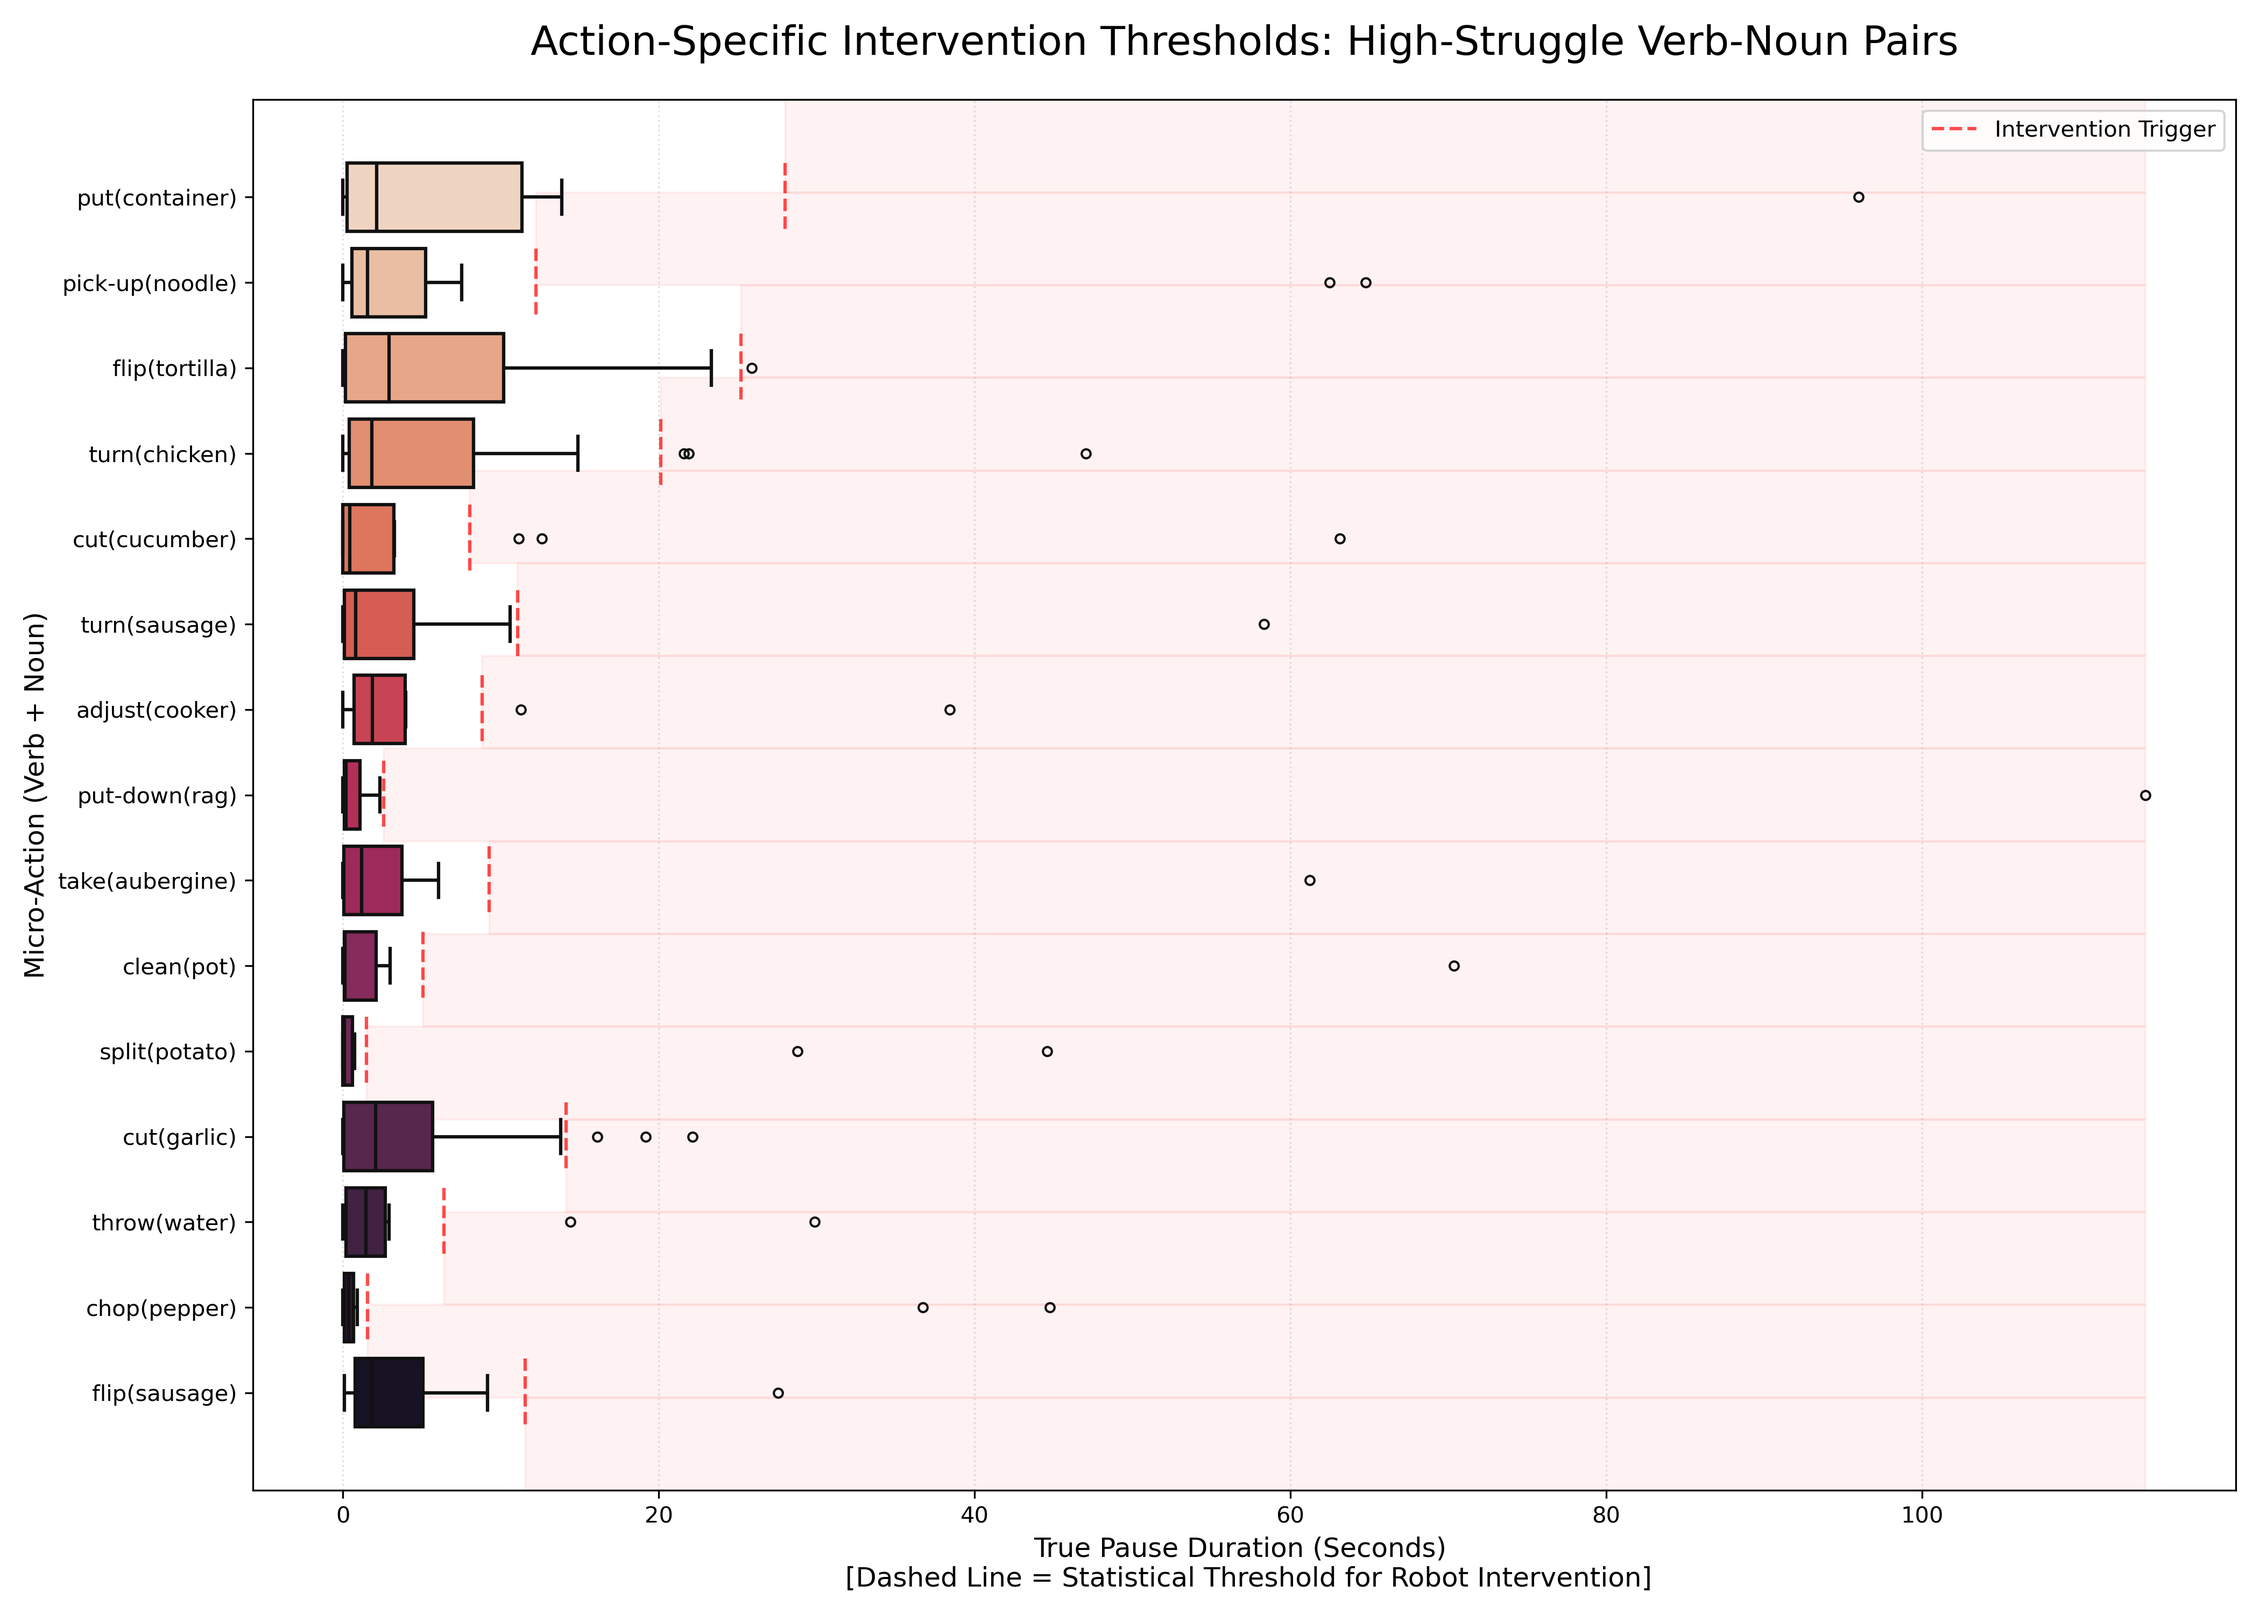
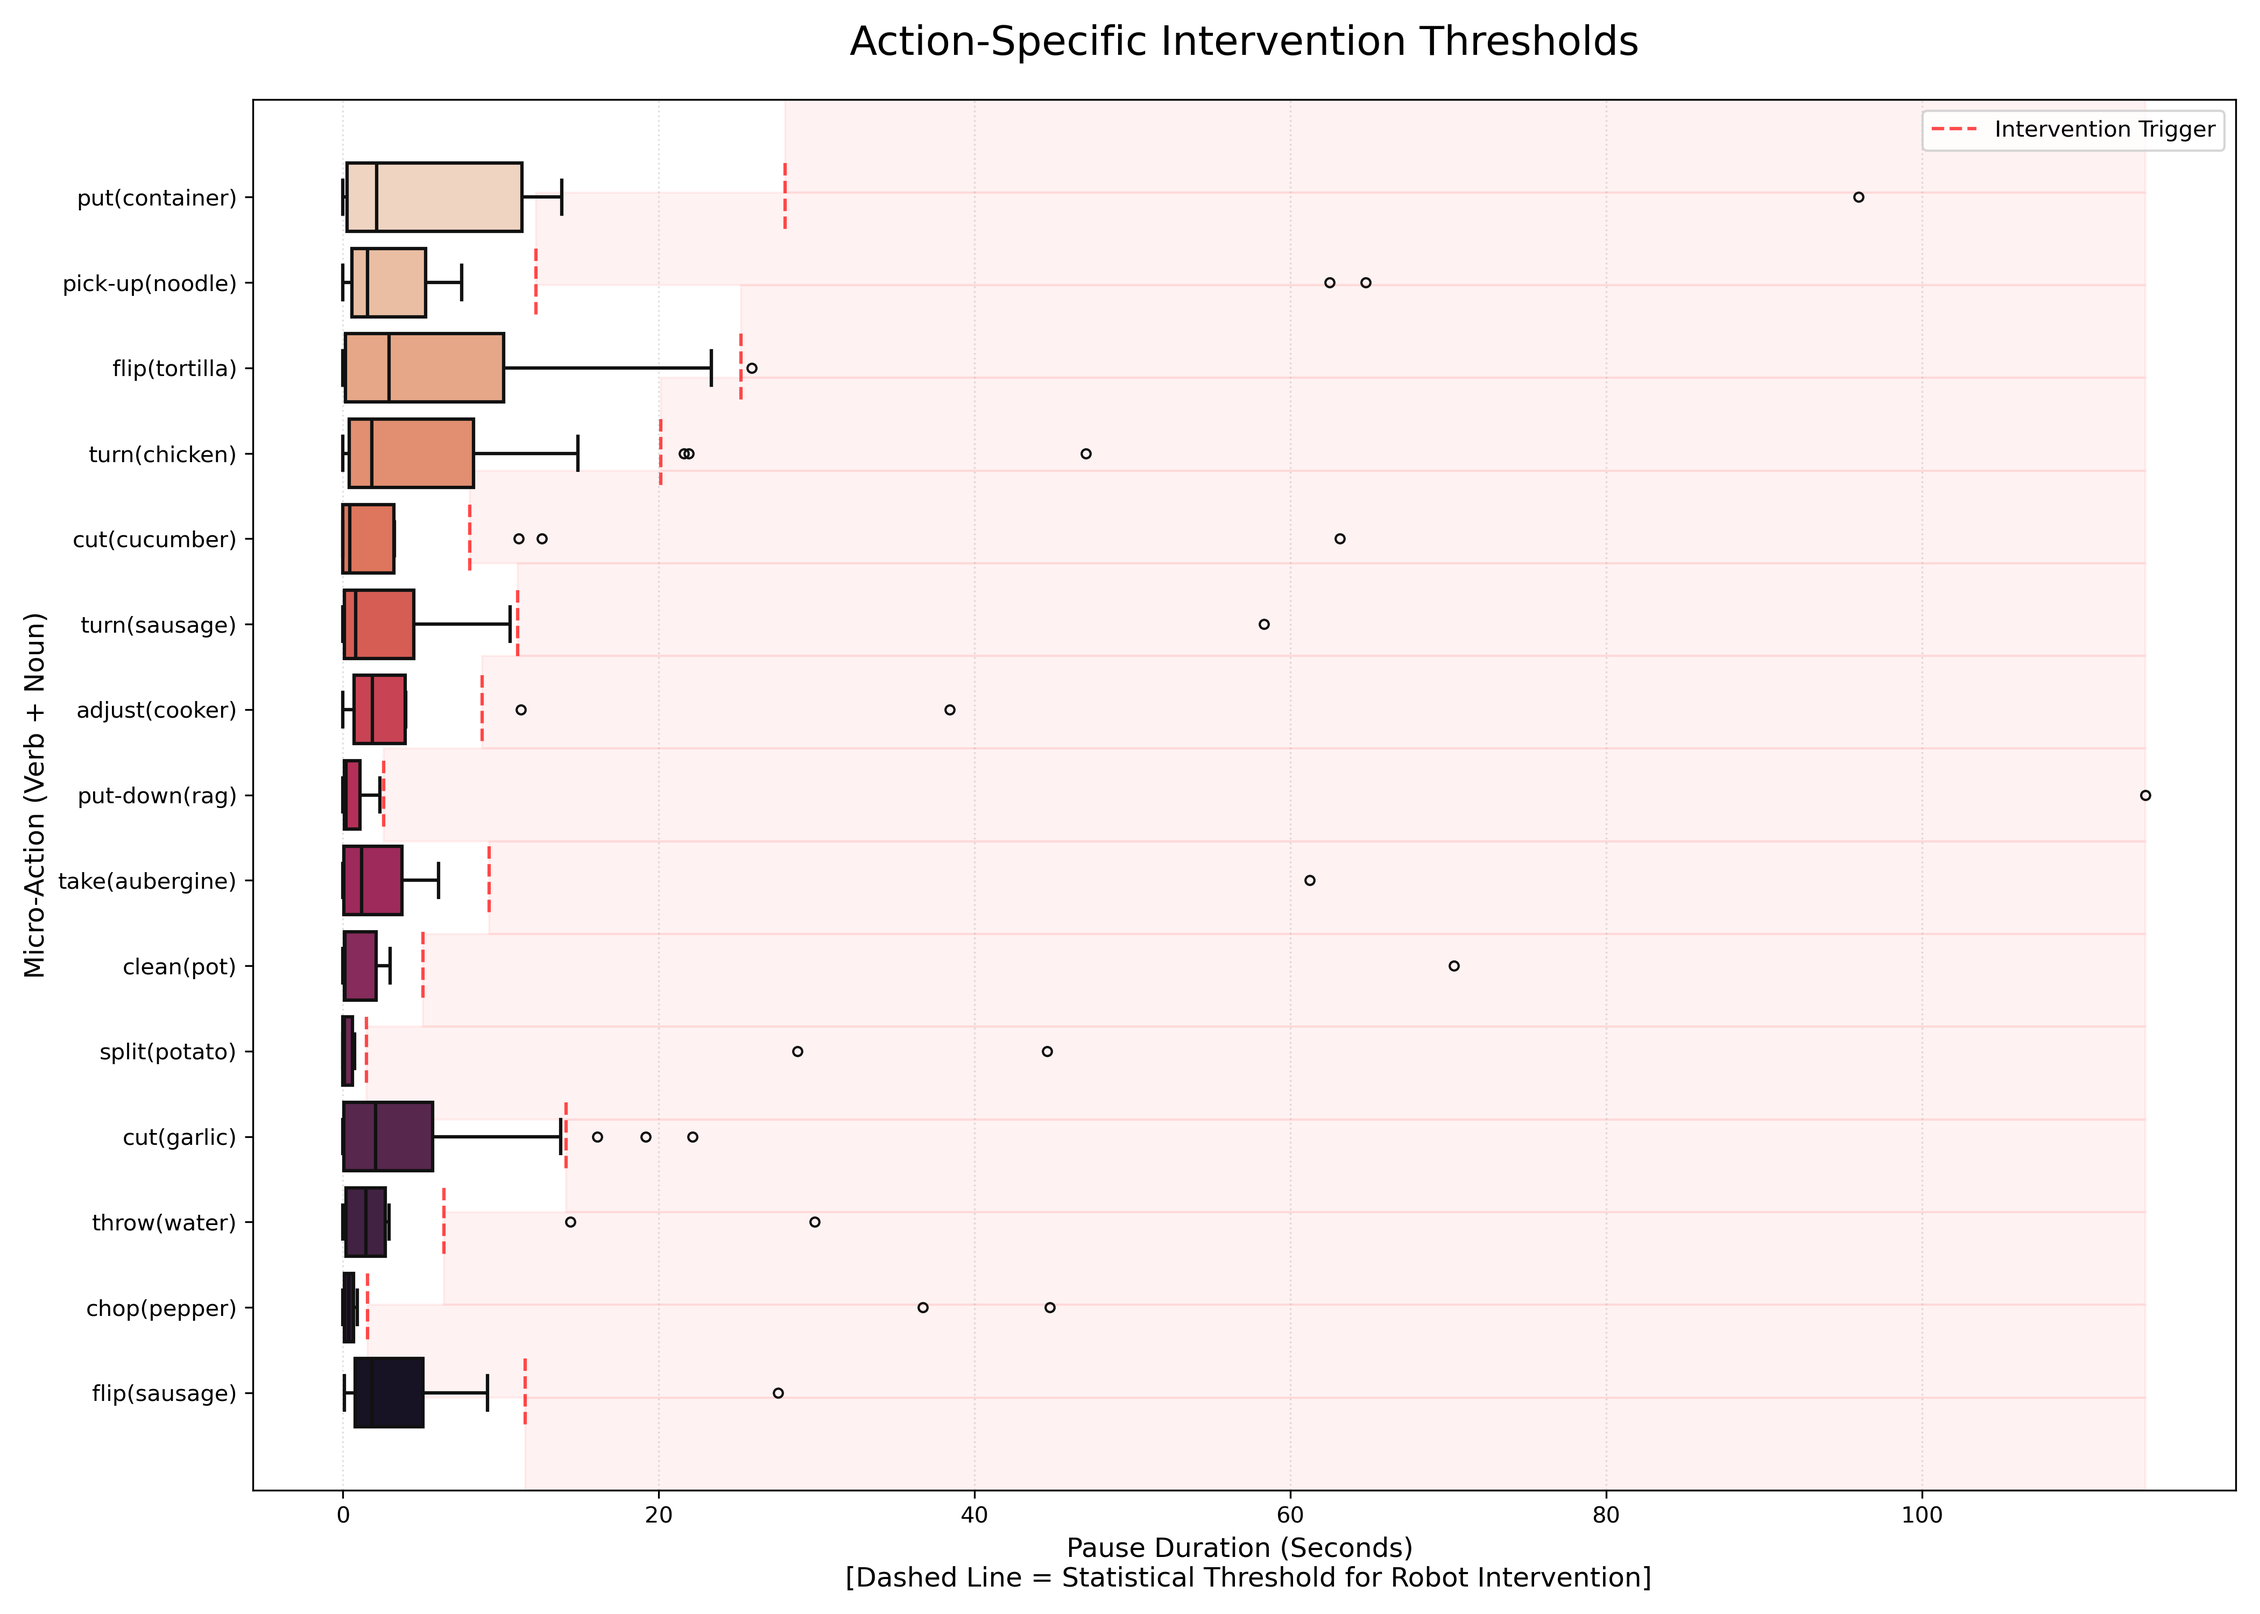
update disfluency and temporal analysis

Changed region(s): [[0.2495, 0.0, 0.8733, 0.062], [0.4679, 0.93, 0.5926, 0.961]]

diff --git a/code/new_oscillation.py b/code/new_oscillation.py
@@ -2,6 +2,7 @@ import pandas as pd
 import matplotlib.pyplot as plt
 import seaborn as sns
 import numpy as np
+import matplotlib.gridspec as gridspec
 
 # 1. LOAD AND PREPROCESS
 df = pd.read_csv('../EPIC_100_train.csv')
@@ -28,59 +29,55 @@ timing_df = find_oscillations_with_timing(df)
 # Calculate the 90th percentile as our statistical "Intervention Threshold"
 threshold_90 = np.percentile(timing_df['duration'], 90)
 
-# Confusion Rate Logic (using Action A as the primary target)
+# Calculate Confusion Rates
 action_counts = df['action'].value_counts().to_dict()
 osc_counts_by_action = timing_df['action_a'].value_counts().to_dict()
 
 conf_list = []
 for action, osc_count in osc_counts_by_action.items():
     total = action_counts.get(action, 0)
-    if total > 15: # Significance filter
-        conf_list.append({'Action': action, 'Freq': total, 'Osc': osc_count, 'Conf_Rate': (osc_count/total)*100})
+    if total > 15: 
+        conf_list.append({'Action': action, 'Conf_Rate': (osc_count/total)*100})
 conf_df = pd.DataFrame(conf_list).sort_values('Conf_Rate', ascending=False)
 
-# 2. VISUALIZATION (The 2x2 Dashboard)
-fig, axes = plt.subplots(2, 2, figsize=(18, 14))
-plt.suptitle("Statistical Analysis of Kitchen Disfluency: Micro-Perspective Intervention Map", fontsize=22, y=0.98)
+# 2. VISUALIZATION (3-Plot Dashboard)
+fig = plt.figure(figsize=(18, 14))
+gs = gridspec.GridSpec(2, 2, height_ratios=[1, 1])
+plt.suptitle("Statistical Analysis of Kitchen Disfluency: Logic-Driven Intervention Map", 
+             fontsize=24, y=0.98, fontweight='bold')
 
-# Q1: TOP PATTERNS (Length = Frequency, Color = Difficulty)
+# --- PLOT 1: Top Left (Top 15 Oscillating Patterns) ---
+ax1 = fig.add_subplot(gs[0, 0])
 top_patterns = timing_df.groupby('pattern')['duration'].agg(['count', 'mean']).sort_values('count', ascending=False).head(15)
 norm = plt.Normalize(top_patterns['mean'].min(), top_patterns['mean'].max())
 sm = plt.cm.ScalarMappable(cmap="RdYlGn_r", norm=norm)
 
-axes[0,0].barh(top_patterns.index, top_patterns['count'], color=plt.cm.RdYlGn_r(norm(top_patterns['mean'])))
-axes[0,0].set_title("1. Top 15 Oscillating Patterns", fontweight='bold', pad=10)
-axes[0,0].set_xlabel("Number of Occurrences (Frequency)")
-axes[0,0].invert_yaxis()
-# Add Colorbar to explain the colors
-cbar = fig.colorbar(sm, ax=axes[0,0], fraction=0.046, pad=0.04)
-cbar.set_label('Average Loop Duration (Seconds)')
+ax1.barh(top_patterns.index, top_patterns['count'], color=plt.cm.RdYlGn_r(norm(top_patterns['mean'])))
+ax1.set_title("1. Most Common Repetitive Patterns", fontweight='bold', fontsize=16)
+ax1.set_xlabel("Number of Occurrences", fontsize=12)
+ax1.invert_yaxis()
+cbar = fig.colorbar(sm, ax=ax1, fraction=0.046, pad=0.04)
+cbar.set_label('Avg Loop Duration (s)')
 
-# Q2: VULNERABILITY SCATTER
-sns.scatterplot(data=conf_df, x='Freq', y='Conf_Rate', size='Osc', hue='Conf_Rate', palette='coolwarm', ax=axes[0,1], sizes=(50, 500))
-axes[0,1].set_title("2. Action Vulnerability: Frequency vs. Confusion Rate", fontweight='bold', pad=10)
-axes[0,1].set_xlabel("Total Occurrences of Action in Dataset")
-axes[0,1].set_ylabel("Confusion Rate (%)")
-# Label Top 3 for clarity
-for i in range(min(3, len(conf_df))):
-    axes[0,1].text(conf_df.iloc[i]['Freq']+30, conf_df.iloc[i]['Conf_Rate'], conf_df.iloc[i]['Action'], fontsize=10, weight='bold')
+# --- PLOT 2: Top Right (Global Distribution & Threshold) ---
+ax2 = fig.add_subplot(gs[0, 1])
+ax2.hist(timing_df['duration'], bins=35, color='steelblue', alpha=0.7, edgecolor='black')
+ax2.axvline(threshold_90, color='red', linestyle='--', linewidth=2, label=f'90th %-ile ({threshold_90:.1f}s)')
+ax2.set_title("2. Global Loop Durations & Decision Boundary", fontweight='bold', fontsize=16)
+ax2.set_xlabel("Loop Duration (Seconds)", fontsize=12)
+ax2.set_ylabel("Count", fontsize=12)
+ax2.legend()
 
-# Q3: STATISTICAL DISTRIBUTION (The "Why")
-axes[1,0].hist(timing_df['duration'], bins=35, color='steelblue', alpha=0.7, edgecolor='black')
-axes[1,0].axvline(threshold_90, color='red', linestyle='--', linewidth=2, label=f'90th %-ile Trigger ({threshold_90:.1f}s)')
-axes[1,0].set_title("3. Global Distribution of Loop Durations", fontweight='bold', pad=10)
-axes[1,0].set_xlabel("Duration of Loop (Seconds)")
-axes[1,0].set_ylabel("Number of Events (Count)")
-axes[1,0].legend()
-
-# Q4: INTERVENTION PRIORITY
+# --- PLOT 3: Bottom (Intervention Priority) ---
+ax3 = fig.add_subplot(gs[1, :]) # Span across both columns
 top_targets = conf_df.head(12)
-axes[1,1].barh(top_targets['Action'], top_targets['Conf_Rate'], color='salmon')
-axes[1,1].set_title("4. Intervention Priority (Highest Probability of Loop)", fontweight='bold', pad=10)
-axes[1,1].set_xlabel("Confusion Rate (%)")
-axes[1,1].set_ylabel("Primary Action")
-axes[1,1].invert_yaxis()
+ax3.barh(top_targets['Action'], top_targets['Conf_Rate'], color='salmon')
+ax3.set_title("3. Actions with Highest Confusion Probability", fontweight='bold', fontsize=16)
+ax3.set_xlabel("Confusion Rate (%)", fontsize=12)
+ax3.set_ylabel("Primary Action", fontsize=12)
+ax3.invert_yaxis()
 
+# Final Polish
 plt.tight_layout(rect=[0, 0.03, 1, 0.95])
-plt.savefig('../visualization/refined_disfluency_map.png', dpi=300)
+plt.savefig('../visualization/refined_disfluency_map_v2.png', dpi=300)
 plt.show()

diff --git a/code/action_duration.py b/code/action_duration.py
@@ -28,27 +28,27 @@ fig = plt.figure(figsize=(20, 14))
 # Create a 2x2 grid, but we will use the bottom row as one big plot
 gs = gridspec.GridSpec(2, 2, height_ratios=[1, 1])
 
-plt.suptitle("Micro-Perspective Temporal Analysis: Physical Effort vs. Cognitive Struggle", 
+plt.suptitle("Temporal Analysis", 
              fontsize=24, y=0.96, fontweight='bold')
 
 # --- PLOT 1: Top Left (Most Frequent vs Duration) ---
 ax1 = fig.add_subplot(gs[0, 0])
 sns.boxplot(data=df_freq, x='duration', y='verb', ax=ax1, palette='Blues', order=top_freq_verbs)
-ax1.set_title("1. Physical Effort: Duration of Frequent Actions", fontsize=16, pad=15)
+ax1.set_title("1. Duration of Frequent Actions", fontsize=16, pad=15)
 ax1.set_xlabel("Seconds (Execution Time)", fontsize=12)
 ax1.set_ylabel("Verb", fontsize=12)
 
 # --- PLOT 2: Top Right (Most Frequent vs True Pause) ---
 ax2 = fig.add_subplot(gs[0, 1])
 sns.boxplot(data=df_freq, x='true_pause', y='verb', ax=ax2, palette='Oranges', order=top_freq_verbs)
-ax2.set_title("2. Cognitive Struggle: True Pause after Frequent Actions", fontsize=16, pad=15)
+ax2.set_title("2. Pause after Frequent Actions", fontsize=16, pad=15)
 ax2.set_xlabel("Seconds (Idle Time)", fontsize=12)
 ax2.set_ylabel("") # Remove y-label to reduce clutter
 
 # --- PLOT 3: Bottom (Actions with Longest True Pause - Spans both columns) ---
 ax3 = fig.add_subplot(gs[1, :]) # Use the entire bottom row
 sns.barplot(x=top_pause_verbs.values, y=top_pause_verbs.index, ax=ax3, palette='magma')
-ax3.set_title("3. Resumption Risk: Top 10 Verbs by Mean True Pause (Global)", fontsize=16, pad=15)
+ax3.set_title("3. Top 10 Verbs by Mean Pause (Global)", fontsize=16, pad=15)
 ax3.set_xlabel("Mean Seconds (Gap Before Next Action)", fontsize=12)
 ax3.set_ylabel("Verb", fontsize=12)
 

diff --git a/code/intervention_threshold_true_pause.py b/code/intervention_threshold_true_pause.py
@@ -55,8 +55,8 @@ for i, action in enumerate(top_pause_actions):
     plt.axvspan(threshold, df_plot['true_pause'].max(), ymin=1 - (i+1)/15, ymax=1 - i/15, color='red', alpha=0.05)
 
 # Formatting
-plt.title("Action-Specific Intervention Thresholds: High-Struggle Verb-Noun Pairs", fontsize=18, pad=20)
-plt.xlabel("True Pause Duration (Seconds) \n [Dashed Line = Statistical Threshold for Robot Intervention]", fontsize=12)
+plt.title("Action-Specific Intervention Thresholds", fontsize=18, pad=20)
+plt.xlabel("Pause Duration (Seconds) \n [Dashed Line = Statistical Threshold for Robot Intervention]", fontsize=12)
 plt.ylabel("Micro-Action (Verb + Noun)", fontsize=12)
 plt.grid(axis='x', linestyle=':', alpha=0.4)
 plt.legend(loc='upper right')
